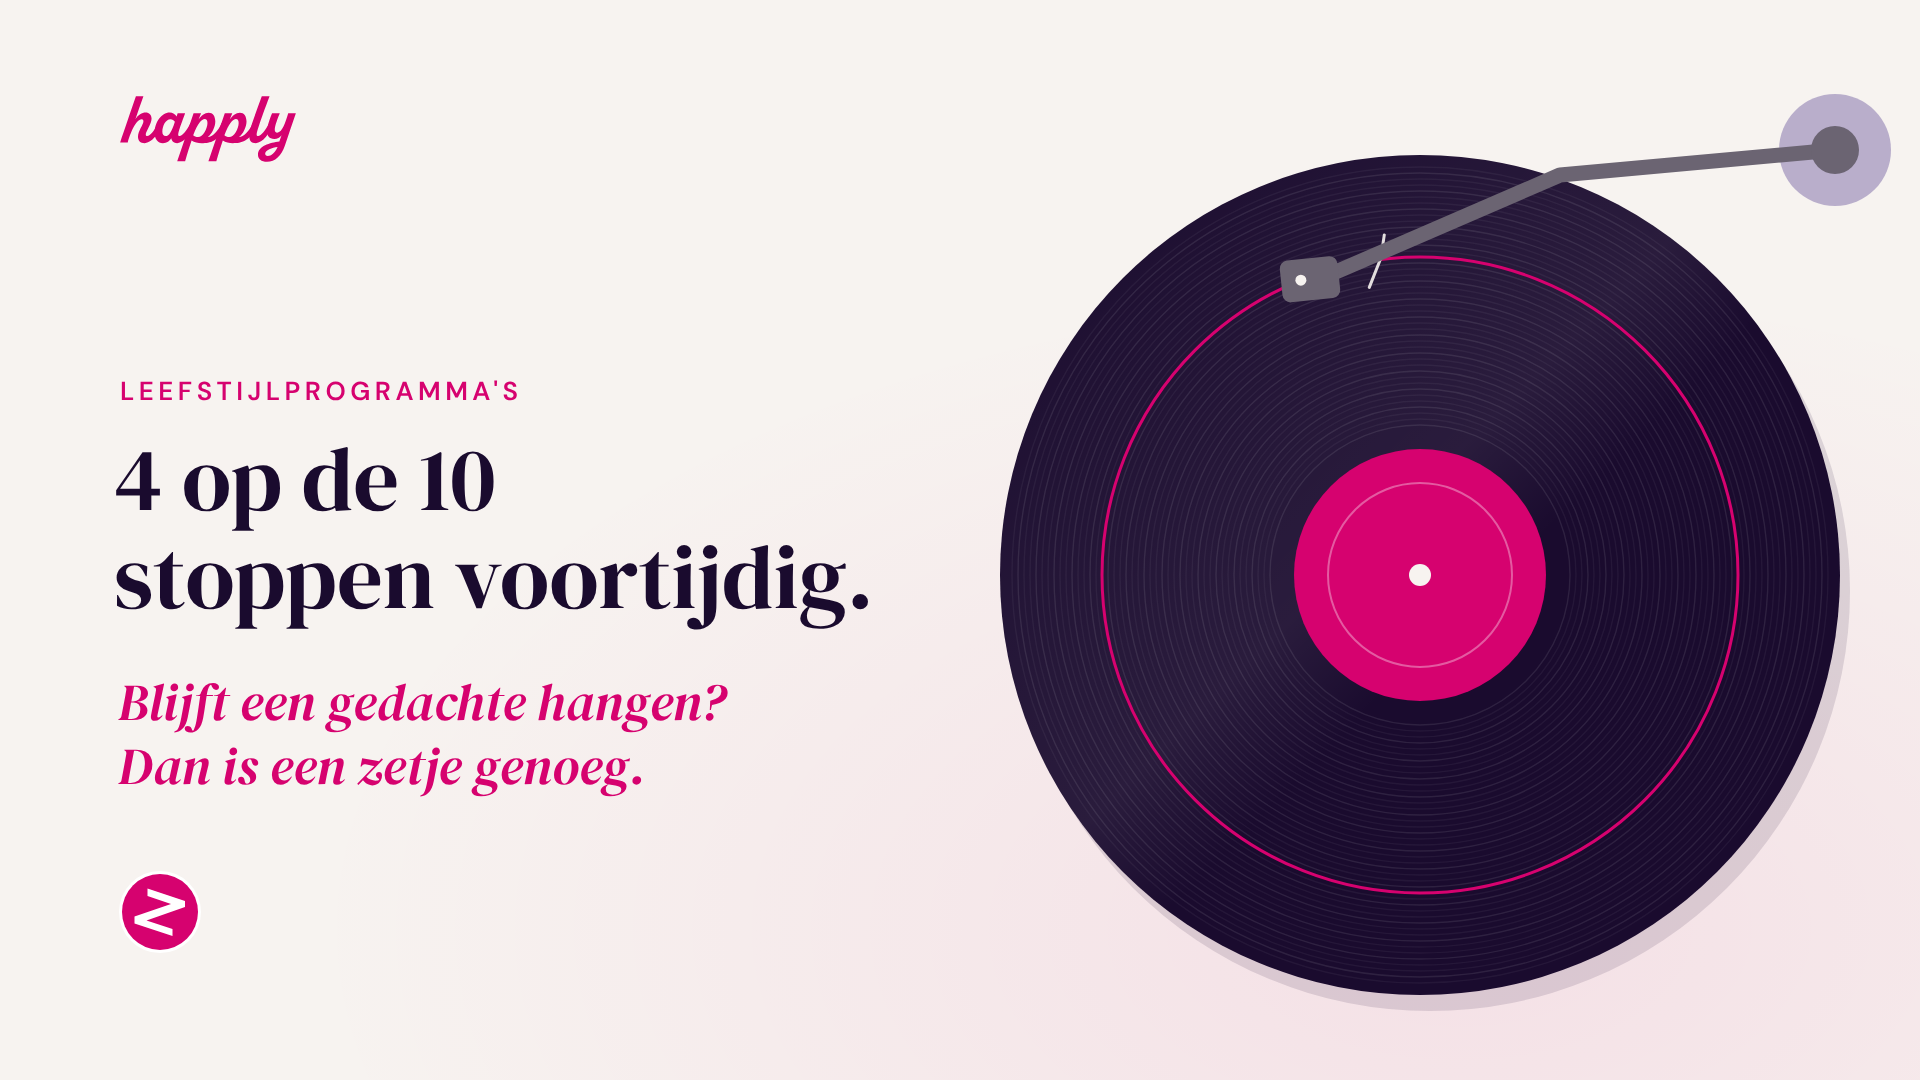
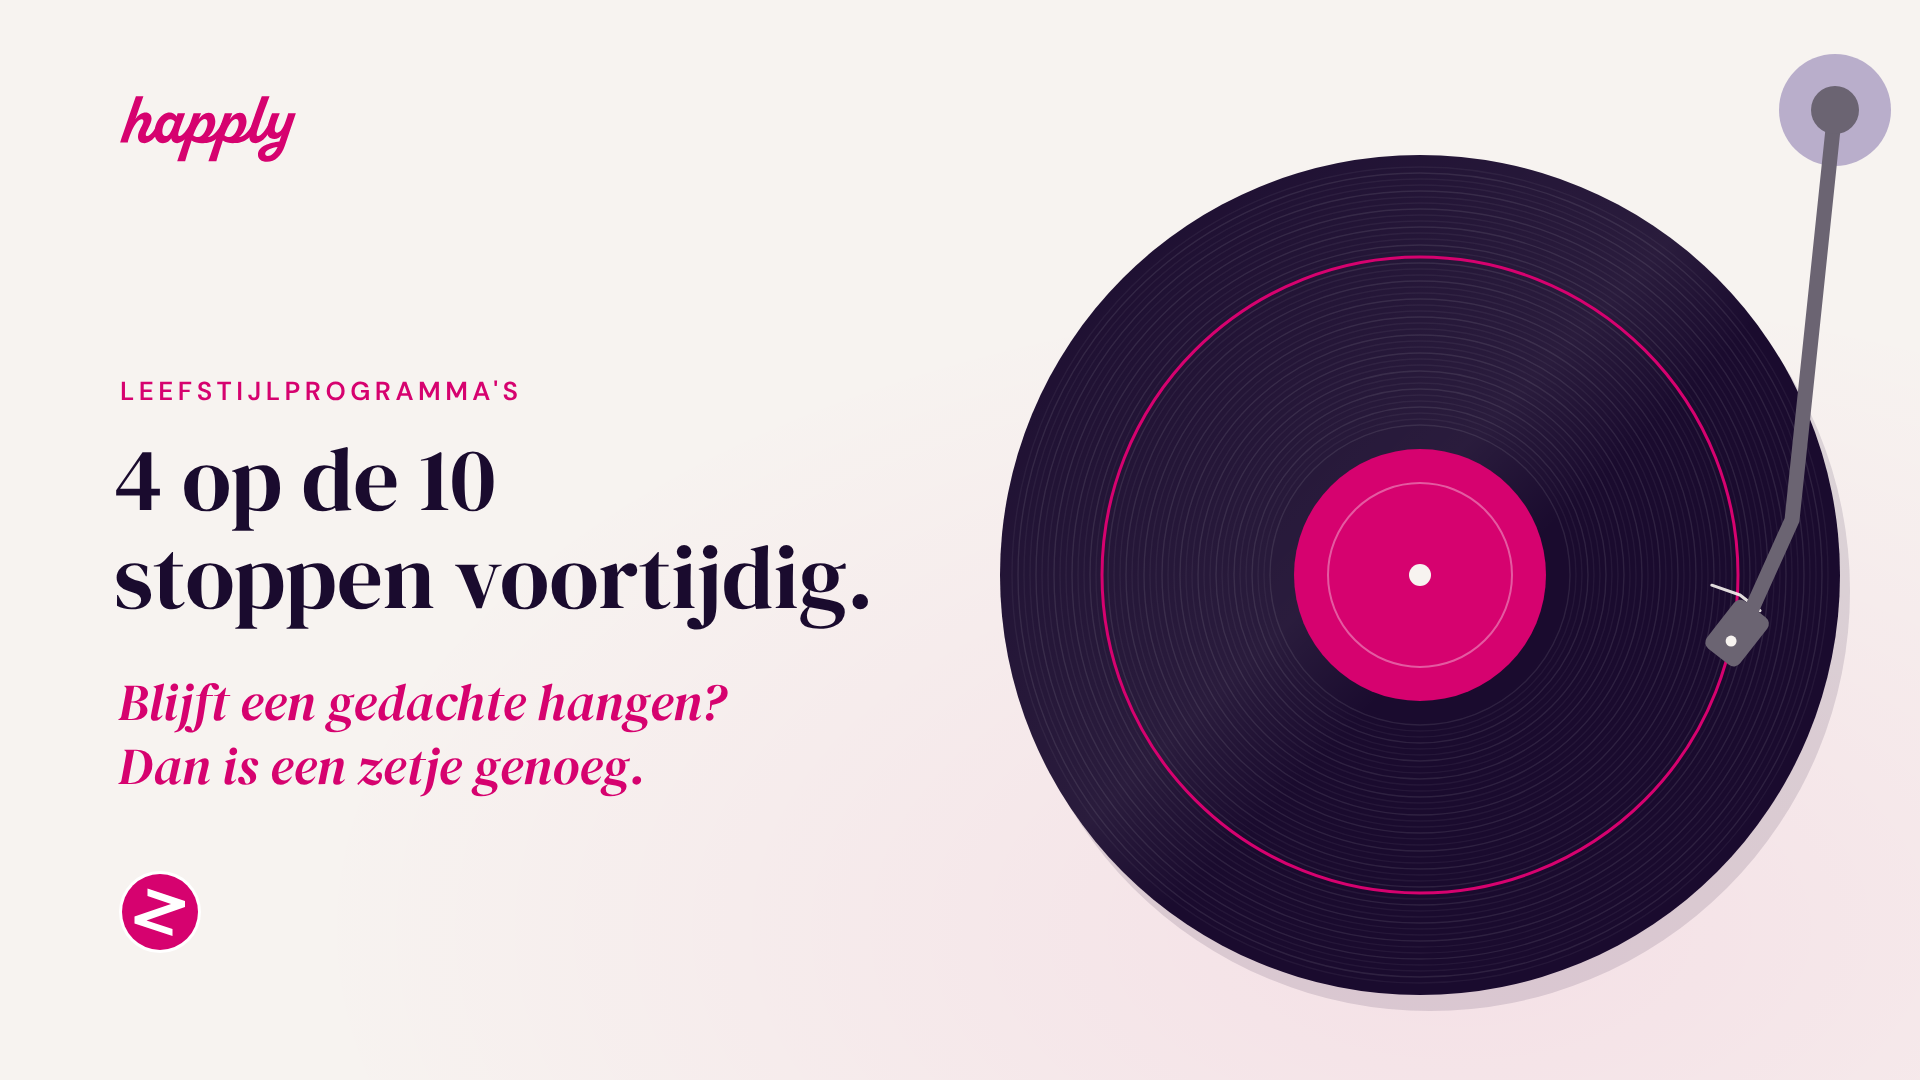
Omslag longread: toonarm rechts, zoals op een echte speler
Claude-Session: https://claude.ai/code/session_01JMdkux2kedoPBKEw8RcLP3

Changed region(s): [[0.7812, 0.0306, 1.0, 0.6111], [0.6562, 0.2139, 0.75, 0.275], [0.75, 0.1833, 0.7812, 0.2139]]

diff --git a/assets/campagne/longread/omslag.html b/assets/campagne/longread/omslag.html
@@ -9,16 +9,16 @@
 <circle cx="1420" cy="575" r="150" fill="none" stroke="#ffffff" stroke-opacity="0.09" stroke-width="1.4"/><circle cx="1420" cy="575" r="156" fill="none" stroke="#ffffff" stroke-opacity="0.05" stroke-width="1.4"/><circle cx="1420" cy="575" r="162" fill="none" stroke="#ffffff" stroke-opacity="0.05" stroke-width="1.4"/><circle cx="1420" cy="575" r="168" fill="none" stroke="#ffffff" stroke-opacity="0.09" stroke-width="1.4"/><circle cx="1420" cy="575" r="174" fill="none" stroke="#ffffff" stroke-opacity="0.05" stroke-width="1.4"/><circle cx="1420" cy="575" r="180" fill="none" stroke="#ffffff" stroke-opacity="0.05" stroke-width="1.4"/><circle cx="1420" cy="575" r="186" fill="none" stroke="#ffffff" stroke-opacity="0.09" stroke-width="1.4"/><circle cx="1420" cy="575" r="192" fill="none" stroke="#ffffff" stroke-opacity="0.05" stroke-width="1.4"/><circle cx="1420" cy="575" r="198" fill="none" stroke="#ffffff" stroke-opacity="0.05" stroke-width="1.4"/><circle cx="1420" cy="575" r="204" fill="none" stroke="#ffffff" stroke-opacity="0.09" stroke-width="1.4"/><circle cx="1420" cy="575" r="210" fill="none" stroke="#ffffff" stroke-opacity="0.05" stroke-width="1.4"/><circle cx="1420" cy="575" r="216" fill="none" stroke="#ffffff" stroke-opacity="0.05" stroke-width="1.4"/><circle cx="1420" cy="575" r="222" fill="none" stroke="#ffffff" stroke-opacity="0.09" stroke-width="1.4"/><circle cx="1420" cy="575" r="228" fill="none" stroke="#ffffff" stroke-opacity="0.05" stroke-width="1.4"/><circle cx="1420" cy="575" r="234" fill="none" stroke="#ffffff" stroke-opacity="0.05" stroke-width="1.4"/><circle cx="1420" cy="575" r="240" fill="none" stroke="#ffffff" stroke-opacity="0.09" stroke-width="1.4"/><circle cx="1420" cy="575" r="246" fill="none" stroke="#ffffff" stroke-opacity="0.05" stroke-width="1.4"/><circle cx="1420" cy="575" r="252" fill="none" stroke="#ffffff" stroke-opacity="0.05" stroke-width="1.4"/><circle cx="1420" cy="575" r="258" fill="none" stroke="#ffffff" stroke-opacity="0.09" stroke-width="1.4"/><circle cx="1420" cy="575" r="264" fill="none" stroke="#ffffff" stroke-opacity="0.05" stroke-width="1.4"/><circle cx="1420" cy="575" r="270" fill="none" stroke="#ffffff" stroke-opacity="0.05" stroke-width="1.4"/><circle cx="1420" cy="575" r="276" fill="none" stroke="#ffffff" stroke-opacity="0.09" stroke-width="1.4"/><circle cx="1420" cy="575" r="282" fill="none" stroke="#ffffff" stroke-opacity="0.05" stroke-width="1.4"/><circle cx="1420" cy="575" r="288" fill="none" stroke="#ffffff" stroke-opacity="0.05" stroke-width="1.4"/><circle cx="1420" cy="575" r="294" fill="none" stroke="#ffffff" stroke-opacity="0.09" stroke-width="1.4"/><circle cx="1420" cy="575" r="300" fill="none" stroke="#ffffff" stroke-opacity="0.05" stroke-width="1.4"/><circle cx="1420" cy="575" r="306" fill="none" stroke="#ffffff" stroke-opacity="0.05" stroke-width="1.4"/><circle cx="1420" cy="575" r="312" fill="none" stroke="#ffffff" stroke-opacity="0.09" stroke-width="1.4"/><circle cx="1420" cy="575" r="318" fill="none" stroke="#ffffff" stroke-opacity="0.05" stroke-width="1.4"/><circle cx="1420" cy="575" r="324" fill="none" stroke="#ffffff" stroke-opacity="0.05" stroke-width="1.4"/><circle cx="1420" cy="575" r="330" fill="none" stroke="#ffffff" stroke-opacity="0.09" stroke-width="1.4"/><circle cx="1420" cy="575" r="336" fill="none" stroke="#ffffff" stroke-opacity="0.05" stroke-width="1.4"/><circle cx="1420" cy="575" r="342" fill="none" stroke="#ffffff" stroke-opacity="0.05" stroke-width="1.4"/><circle cx="1420" cy="575" r="348" fill="none" stroke="#ffffff" stroke-opacity="0.09" stroke-width="1.4"/><circle cx="1420" cy="575" r="354" fill="none" stroke="#ffffff" stroke-opacity="0.05" stroke-width="1.4"/><circle cx="1420" cy="575" r="360" fill="none" stroke="#ffffff" stroke-opacity="0.05" stroke-width="1.4"/><circle cx="1420" cy="575" r="366" fill="none" stroke="#ffffff" stroke-opacity="0.09" stroke-width="1.4"/><circle cx="1420" cy="575" r="372" fill="none" stroke="#ffffff" stroke-opacity="0.05" stroke-width="1.4"/><circle cx="1420" cy="575" r="378" fill="none" stroke="#ffffff" stroke-opacity="0.05" stroke-width="1.4"/><circle cx="1420" cy="575" r="384" fill="none" stroke="#ffffff" stroke-opacity="0.09" stroke-width="1.4"/><circle cx="1420" cy="575" r="390" fill="none" stroke="#ffffff" stroke-opacity="0.05" stroke-width="1.4"/><circle cx="1420" cy="575" r="396" fill="none" stroke="#ffffff" stroke-opacity="0.05" stroke-width="1.4"/><circle cx="1420" cy="575" r="402" fill="none" stroke="#ffffff" stroke-opacity="0.09" stroke-width="1.4"/><circle cx="1420" cy="575" r="408" fill="none" stroke="#ffffff" stroke-opacity="0.05" stroke-width="1.4"/>
 <circle cx="1420" cy="575" r="420" fill="url(#shine)"/>
 <circle cx="1420" cy="575" r="318" fill="none" stroke="#D6026F" stroke-width="3"/>
-<path d="M1369.3,287.4 L1380.8,258.2 L1384.3,234.9" fill="none" stroke="#F7F3F0" stroke-opacity=".9" stroke-width="3" stroke-linecap="round" stroke-linejoin="round"/>
+<path d="M1711.8,585.2 L1740.0,595.0 L1760.1,610.7" fill="none" stroke="#F7F3F0" stroke-opacity=".9" stroke-width="3" stroke-linecap="round" stroke-linejoin="round"/>
 <circle cx="1420" cy="575" r="126" fill="#D6026F"/>
 <circle cx="1420" cy="575" r="92" fill="none" stroke="#fff" stroke-opacity=".35" stroke-width="2"/>
 <circle cx="1420" cy="575" r="11" fill="#F7F3F0"/>
 <!-- toonarm -->
-<circle cx="1835" cy="150" r="56" fill="#B9AECB"/>
-<path d="M1835,150 L1560,175 L1330.87510329374,274.1555342477616" fill="none" stroke="#6B6472" stroke-width="15" stroke-linecap="round" stroke-linejoin="round"/>
-<circle cx="1835" cy="150" r="24" fill="#6B6472"/>
-<g transform="translate(1310.87510329374,278.1555342477616) rotate(-6)"><rect x="-30" y="-20" width="58" height="42" rx="8" fill="#6B6472"/></g>
-<circle cx="1300.87510329374" cy="280.1555342477616" r="5.5" fill="#F7F3F0"/>
+<circle cx="1835" cy="110" r="56" fill="#B9AECB"/>
+<path d="M1835,110 L1792,520 L1749.1,615.1" fill="none" stroke="#6B6472" stroke-width="15" stroke-linecap="round" stroke-linejoin="round"/>
+<circle cx="1835" cy="110" r="24" fill="#6B6472"/>
+<g transform="translate(1737.1,633.1) rotate(-52)"><rect x="-30" y="-21" width="60" height="42" rx="8" fill="#6B6472"/></g>
+<circle cx="1731.1" cy="641.1" r="5.5" fill="#F7F3F0"/>
 <!-- tekst -->
 <svg x="120" y="96" height="66" width="176" viewBox="49 73 719 269" role="img" aria-label="Happly"><g fill="#D6026F"><path d="M122.46,238.84c0-23.1,22.2-48.6,22.2-62.7,0-4.8-1.8-8.1-7.2-8.1-24.3,0-47.7,61.2-56.7,94.2h-31.2c17.7-51.9,43.2-126.9,64.5-188.4h30.6c-11.4,31.5-22.2,62.7-32.7,94.2,10.8-18.3,27-27.6,41.7-27.6s24,9.9,24.3,24.6c.6,22.2-23.7,52.2-23.7,65.1,0,3.9,2.4,6.3,6,6.3,12,0,30.3-23.7,45.6-54.3l13.2,14.4c-11.4,25.5-39.6,68.7-69.3,68.7-18,0-27.3-11.1-27.3-26.4Z"/><path d="M351.06,196.54c-11.4,25.5-39.6,68.7-68.4,68.7-14.4,0-22.5-9.9-24.3-20.1-6.6,10.5-17.4,20.1-34.2,20.1-20.7,0-33.9-17.1-33.9-43.5,0-40.2,27.9-81.3,61.8-81.3,12,0,23.7,7.5,28.2,15.6l4.2-12.6h30.6c-26.4,72-34.2,93-22.8,93s30.3-22.8,45.6-54.3l13.2,14.4ZM273.06,177.64c-3.9-5.7-10.5-9.9-18-9.9-19.8,0-33,27.9-33,51,0,9.6,4.2,17.7,13.8,17.7,13.2,0,25.2-19.2,37.2-58.8Z"/><path d="M282.66,338.74c22.5-64.8,44.7-130.8,66.9-195.3h30.6l-10.2,25.5c9.6-16.2,24.9-28.2,41.4-28.2s27,13.2,27,36.6c0,20.7-13.5,51.6-30.9,63.3,20.1-2.1,41.7-22.2,57-58.8l13.2,16.5c-26.4,60.6-59.7,67.2-94.8,67.2-15.3,0-30.3-3-41.4-10.8-7.8,22.2-16.5,51.3-26.4,84h-32.4ZM406.26,183.04c0-9.9-3.6-16.2-11.1-16.2-12-.3-29.4,18-47.1,66.3,4.2,4.5,11.4,7.5,19.8,7.5,19.8,0,38.4-34.2,38.4-57.6Z"/><path d="M410.15,338.74c22.5-64.8,44.7-130.8,66.9-195.3h30.6l-10.2,25.5c9.6-16.2,24.9-28.2,41.4-28.2s27,13.2,27,36.6c0,20.7-13.5,51.6-30.9,63.3,20.1-2.1,41.7-22.2,57-58.8l13.2,16.5c-26.4,60.6-59.7,67.2-94.8,67.2-15.3,0-30.3-3-41.4-10.8-7.8,22.2-16.5,51.3-26.4,84h-32.4ZM533.75,183.04c0-9.9-3.6-16.2-11.1-16.2-12-.3-29.4,18-47.1,66.3,4.2,4.5,11.4,7.5,19.8,7.5,19.8,0,38.4-34.2,38.4-57.6Z"/><path d="M672.05,196.54c-11.1,25.5-39.3,68.7-68.4,68.7s-33.3-23.4-16.8-75.6c9.6-29.4,26.4-74.4,41.4-115.8h31.8c-19.2,49.8-35.1,95.1-43.5,120.6-11.1,32.7-12.3,42-3.3,42,11.7,0,30.6-22.8,45.9-54.3l12.9,14.4Z"/><path d="M612.65,312.64c0-35.7,49.2-48.9,87.3-54l9-25.8c-6,8.7-17.7,15.3-29.4,15.3-42,0-32.4-48.3-9.3-104.7h31.5c-14.7,36-30.9,78.9-10.8,78.9,22.5,0,34.5-45.6,45.3-78.9h31.2c-15.9,45.9-28.8,85.2-44.7,131.4-14.7,42.6-40.5,66.9-72.6,66.9-24.9,0-37.5-13.5-37.5-29.1ZM692.75,281.14c-22.2,2.1-50.7,13.2-50.7,27.3,0,5.1,3.3,9,10.8,9,13.8,0,28.5-10.5,39.9-36.3Z"/></g></svg>
 <text x="120" y="400" font-family="DM Sans" font-weight="600" font-size="26" letter-spacing="4.5" fill="#D6026F">LEEFSTIJLPROGRAMMA'S</text>
